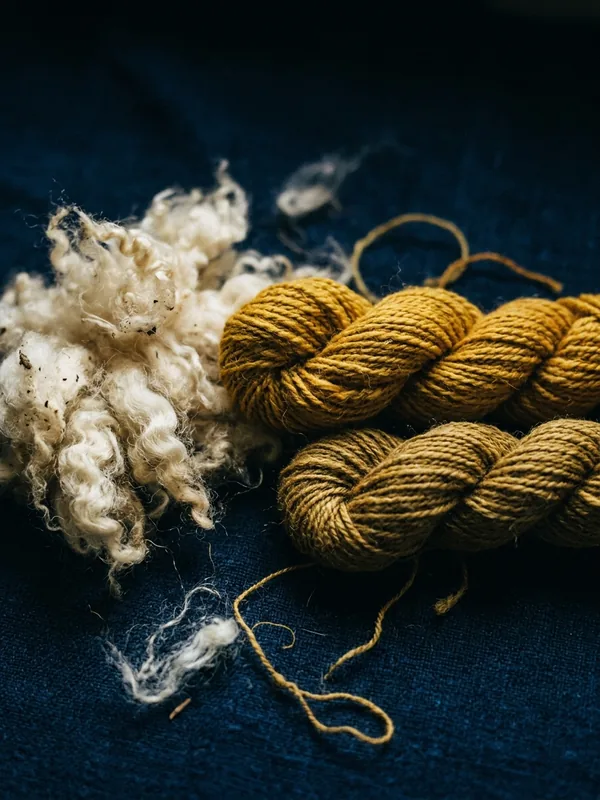
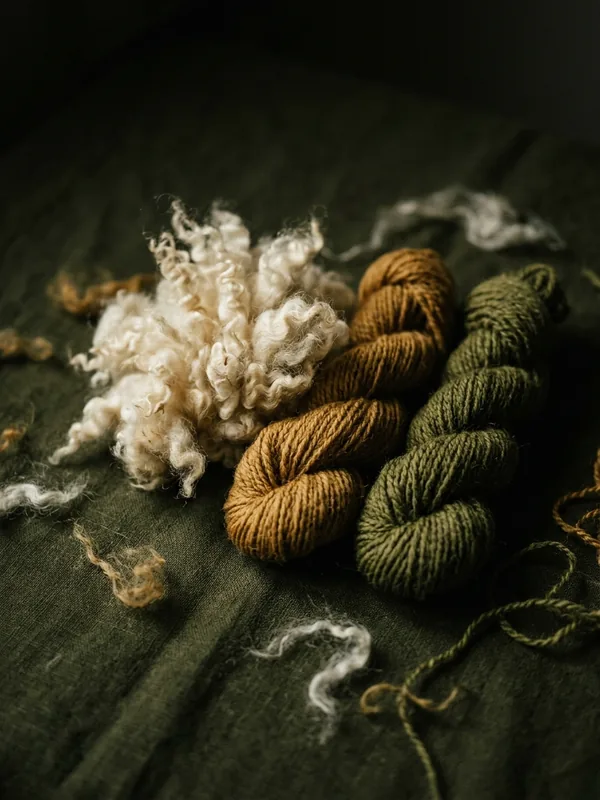
feat: troca a paleta de índigo para oliva-pampa, a pedido da realizadora
A Dafne não gosta de azul-marinho. Como o mundo visual inteiro lia de
oito variáveis, a troca foi de valor e não de estrutura: a tipografia, o
livro-razão, a faixa institucional e a lógica de instrução permanecem.

Tokens renomeados junto com os valores. Deixar uma variável chamada
--indigo valendo verde seria uma armadilha para quem mexesse nisso
depois, então --indigo virou --oliva, --ouro virou --latao e --linho
virou --osso, em todos os componentes.

Chão #2B3123, recuado #1E2319, urdume #3A4230, latão #C2A657, latão claro
#DCC177, osso #EDE7D6, osso recuado #BDB49E, tinta #14120D.

Fios de território refeitos: o verde-oliva do Vale dos Sinos sumiria
contra o chão novo e o azul de Porto Alegre saiu de cena junto com o
índigo. Agora são rosé #C9707A, couro #C08A52, ocre #C2A657 e violeta
#B87BB0, todos entre 3,88:1 e 5,67:1 como marca gráfica.

As cinco fotografias foram geradas de novo no Flow, com as composições
aprovadas descritas no prompt, inclusive a variante do tear que o
Bernardo escolheu. A edição por referência derrubou a sessão da página
duas vezes, então o caminho foi gerar com a composição fixada. Continuam
sendo estudo de matéria-prima, sem pessoas e sem lugares.

O véu do hero precisou adensar: sobre a foto oliva os botões em latão
mediam 4,2:1 no pixel mais claro. Com os novos pontos do gradiente, as
cinco zonas passam AA: olho 5,8:1, título 5,0:1, parágrafo 9,8:1, botões
5,0:1 e link do voo 6,5:1.
[…]

diff --git a/src/styles/global.css b/src/styles/global.css
@@ -1,23 +1,23 @@
-/* Mundo "brocado jacquard" — ver DESIGN.md para o contrato de direção.
-   Seda índigo como chão, trama dourada como único acento, cartão perfurado em linho. */
+/* Mundo "oliva-pampa" — ver DESIGN.md para o contrato de direção.
+   Oliva profundo do campo como chão, latão como único acento, cartão perfurado em osso. */
 :root {
-  --indigo: #141F35;
-  --indigo-fundo: #0E1626;
-  --urdume: #1F2B44;
-  --ouro: #C9A227;
-  --ouro-claro: #E0C05A;
-  --linho: #E8E0CE;
-  --linho-2: #B9AF9A;
-  --tinta: #12100C;
+  --oliva: #2B3123;
+  --oliva-fundo: #1E2319;
+  --urdume: #3A4230;
+  --latao: #C2A657;
+  --latao-claro: #DCC177;
+  --osso: #EDE7D6;
+  --osso-2: #BDB49E;
+  --tinta: #14120D;
 
   /* fios de território: marcas pequenas, nunca área */
-  --fio-serra: #C2603A;
-  --fio-sinos: #8B9A5B;
-  --fio-campanha: #C9A227;
-  --fio-poa: #7796B8;
+  --fio-serra: #C9707A;
+  --fio-sinos: #C08A52;
+  --fio-campanha: #C2A657;
+  --fio-poa: #B87BB0;
 
   /* anel de foco: nunca a cor de acento sobre superfície da mesma cor */
-  --foco: var(--ouro-claro);
+  --foco: var(--latao-claro);
 
   --display: 'Italiana', 'Optima', serif;
   --corpo: 'Archivo', system-ui, sans-serif;
@@ -35,8 +35,8 @@ html { scroll-behavior: smooth; scroll-padding-top: 5.5rem; }
 
 body {
   margin: 0;
-  background: var(--indigo);
-  color: var(--linho);
+  background: var(--oliva);
+  color: var(--osso);
   font-family: var(--corpo);
   font-size: 1.02rem;
   font-weight: 300;
@@ -44,7 +44,7 @@ body {
   -webkit-font-smoothing: antialiased;
 }
 
-/* trama de urdume: fios verticais quase imperceptíveis sob todo o índigo */
+/* trama de urdume: fios verticais quase imperceptíveis sob todo o oliva */
 body::before {
   content: "";
   position: fixed;
@@ -65,11 +65,11 @@ h1, h2, h3 {
   text-transform: uppercase;
   letter-spacing: 0.06em;
   text-wrap: balance;
-  color: var(--ouro);
+  color: var(--latao);
 }
 
 p { margin: 0 0 1.1em; max-width: var(--medida); text-wrap: pretty; }
-a { color: var(--ouro); }
+a { color: var(--latao); }
 img { max-width: 100%; display: block; }
 
 .container {
@@ -94,7 +94,7 @@ img { max-width: 100%; display: block; }
   font-weight: 400;
   letter-spacing: 0.16em;
   text-transform: uppercase;
-  color: var(--linho-2);
+  color: var(--osso-2);
 }
 
 /* ação de contorno: a única variante de botão do sistema */
@@ -104,30 +104,30 @@ img { max-width: 100%; display: block; }
   font-size: 0.76rem;
   letter-spacing: 0.14em;
   text-transform: uppercase;
-  color: var(--ouro);
+  color: var(--latao);
   text-decoration: none;
-  border: 1px solid var(--ouro);
+  border: 1px solid var(--latao);
   padding: 0.95rem 2.1rem;
   transition: background-color 0.25s ease, color 0.25s ease;
 }
-.acao:hover { background: var(--ouro); color: var(--indigo); }
+.acao:hover { background: var(--latao); color: var(--oliva); }
 
-.acao--linho { color: var(--linho-2); border-color: var(--urdume); }
-.acao--linho:hover { background: transparent; color: var(--linho); border-color: var(--linho); }
+.acao--osso { color: var(--osso-2); border-color: var(--urdume); }
+.acao--osso:hover { background: transparent; color: var(--osso); border-color: var(--osso); }
 
 /* faixa de cartão perfurado: full-bleed, carrega informação real */
 .cartao {
-  background: var(--linho);
+  background: var(--osso);
   color: var(--tinta);
-  border-block: 1px solid rgba(18, 16, 12, 0.28);
+  border-block: 1px solid rgba(20, 18, 13, 0.28);
 }
-.cartao .razao { color: rgba(18, 16, 12, 0.62); }
+.cartao .razao { color: rgba(20, 18, 13, 0.62); }
 .cartao a { color: var(--tinta); }
 
 .pular-link {
   position: absolute;
   left: -9999px;
-  background: var(--linho);
+  background: var(--osso);
   color: var(--tinta);
   padding: 0.7rem 1.1rem;
   font-family: var(--razao);

diff --git a/src/data/tipos.ts b/src/data/tipos.ts
@@ -2,7 +2,6 @@ export interface Regiao {
   id: string;
   nome: string;
   vocacao: string;
-  cor: string;
   texto: string;
   imagem: string | null; // caminho em /public quando houver fotos da pesquisa
   imagemAlt?: string; // descrição do estudo de matéria-prima, obrigatória quando há imagem

diff --git a/DESIGN.md b/DESIGN.md
@@ -2,43 +2,43 @@
 
 <!-- impeccable:design-schema 1 -->
 
-> Brocado jacquard sobre seda meia-noite: o mapeamento como instrução tecida.
+> Oliva-pampa e osso: o mapeamento como instrução tecida.
 
 ## Contrato de direção
 
-**THESIS** — O tear jacquard é o avô do computador: cartões perfurados viram trama. Este projeto transforma territórios têxteis em dados mapeados, então o site é lido como um brocado em execução, não como um catálogo. Recusa a arrumação que a categoria sempre entrega: fundo creme, serifa editorial e acento terracota.
+**THESIS** — O tear jacquard é o avô do computador: cartões perfurados viram trama. Este projeto transforma territórios têxteis em dados mapeados, então o site é lido como um brocado em execução, não como um catálogo. O chão é o verde profundo do campo, que é de onde vêm a lã, a tinturaria natural e o pampa. Recusa a arrumação que a categoria sempre entrega: fundo creme, serifa editorial e acento terracota.
 
-**OWN-WORLD** — Seda índigo profunda como chão de página; trama dourada como único acento estrutural; faixas de cartão perfurado em linho cru marcando instrução; tinta quase-preta como sombra de urdume. Réguas monoespaçadas, capitulares tecidas, cantos retos, zero sombra.
+**OWN-WORLD** — Oliva profundo do campo como chão de página; latão como único acento estrutural; faixas de cartão perfurado em osso marcando instrução; tinta quase-preta como sombra de urdume. Réguas monoespaçadas, capitulares tecidas, cantos retos, zero sombra.
 
 **STORY** — Uma marca entende em segundos que existe pesquisa de campo real em quatro territórios, reconhece rigor de instituição e escreve para apoiar.
 
-**FIRST VIEWPORT** — Chão índigo de borda a borda. Faixa de cartão perfurado sob o cabeçalho, com os quatro territórios como colunas numeradas. À esquerda, "MODA COMO ORIGEM" em capitulares Italiana douradas, em escala de cartaz. Abaixo: uma linha de apoio e a ação primária em contorno dourado. À direita, o mapa vetorial do RS desenhado como trama.
+**FIRST VIEWPORT** — Uma tela inteira, sem nenhuma nesga da seção seguinte. Fotografia de tecelagem sangrando de borda a borda, com véu direcional que abre para a trama à direita e fecha onde o texto pousa. À esquerda, "MODA COMO ORIGEM" em capitulares Italiana em latão, em escala de cartaz, sobre coluna estreita. Abaixo, a linha de apoio, duas ações em contorno e o convite ao `/voo` como fio. A faixa institucional branca encosta no pé da tela e fecha o hero.
 
-**FORM** — Jacquard punched brocade (desafiante dealado, vencedor por identificação de público e clareza de produto contra a renderização papel-quente). Seed: `4b51d351`.
+**FORM** — Jacquard punched brocade, agora em oliva-pampa. A troca de paleta veio da realizadora do projeto, que rejeitou o azul-marinho; a estrutura, a tipografia e a lógica de instrução permanecem. Seed: `4b51d351`.
 
 ## Tokens — Cores
 
 | Nome | Valor | Token | Papel |
 |------|-------|-------|-------|
-| Índigo | `#141F35` | `--indigo` | Chão de página. Seda meia-noite, nunca azul-marinho puro |
-| Índigo profundo | `#0E1626` | `--indigo-fundo` | Faixas e superfícies recuadas, um passo mais escuro que o chão |
-| Urdume | `#1F2B44` | `--urdume` | Bordas, réguas e divisórias sobre o índigo |
-| Ouro | `#C9A227` | `--ouro` | Acento único e estrutural: títulos, ação primária, motivo da trama |
-| Ouro claro | `#E0C05A` | `--ouro-claro` | Estado de foco e hover; nunca em bloco de texto |
-| Linho cru | `#E8E0CE` | `--linho` | Faixas de cartão perfurado e texto sobre índigo |
-| Linho recuado | `#B9AF9A` | `--linho-2` | Texto secundário, metadados, rótulos |
-| Tinta | `#12100C` | `--tinta` | Texto sobre as faixas de linho; sombra de urdume |
+| Oliva | `#2B3123` | `--oliva` | Chão de página. Verde profundo de campo, nunca verde-garrafa nem verde-menta |
+| Oliva profundo | `#1E2319` | `--oliva-fundo` | Faixas e superfícies recuadas, um passo mais escuro que o chão |
+| Urdume | `#3A4230` | `--urdume` | Bordas, réguas e divisórias sobre o oliva |
+| Latão | `#C2A657` | `--latao` | Acento único e estrutural: títulos, ação primária, motivo da trama |
+| Latão claro | `#DCC177` | `--latao-claro` | Estado de foco e hover; nunca em bloco de texto |
+| Osso | `#EDE7D6` | `--osso` | Faixas de cartão perfurado e texto sobre oliva |
+| Osso recuado | `#BDB49E` | `--osso-2` | Texto secundário, metadados, rótulos |
+| Tinta | `#14120D` | `--tinta` | Texto sobre as faixas de osso; sombra de urdume |
 
-**Fios de território** — usados só como marcas pequenas, nunca como área: Serra Gaúcha `#C2603A`, Vale dos Sinos `#8B9A5B`, Campanha `#C9A227`, Porto Alegre `#7796B8`.
+**Fios de território** — usados só como marcas pequenas, nunca como área: Serra Gaúcha `#C9707A`, Vale dos Sinos `#C08A52`, Campanha `#C2A657`, Porto Alegre `#B87BB0`. Nenhum deles pode ser verde: o fio precisa se separar do chão.
 
-Estratégia de cor: **Committed** — o índigo carrega 60-70% da superfície; o ouro é o único acento e aparece em menos de 5%.
+Estratégia de cor: **Committed** — o oliva carrega 60-70% da superfície; o latão é o único acento e aparece em menos de 5%.
 
 ## Tokens — Tipografia
 
 | Papel | Face | Uso |
 |-------|------|-----|
 | Display | **Italiana** 400 | Capitulares tecidas. Só em caixa alta, `letter-spacing` 0.06em a 0.12em. Nunca abaixo de 24px |
-| Corpo | **Archivo** 300/400/500 | Todo texto corrido e interface |
+| Corpo | **Archivo** 300/400/500/600 e itálico 400 | Todo texto corrido e interface |
 | Razão | **JetBrains Mono** 400/500 | Réguas de cartão perfurado, numeração de território, rótulos técnicos, créditos |
 
 Escala de display: `clamp(2.6rem, 7vw, 6.5rem)`. Hierarquia por **tamanho e espaçamento**, não por peso.
@@ -49,41 +49,48 @@ Faces proibidas (monocultura de IA): Fraunces, Cormorant, Playfair, Lora, Crimso
 
 Unidade base 4px. Largura máxima de página 1440px; medida de leitura 62ch.
 **Raio de borda: 0 em tudo.** Sem exceção para botão, imagem, faixa ou selo.
-**Sem sombra.** Elevação vem de mudança de superfície e de régua de 1px.
+**Sem sombra.** Elevação vem de mudança de superfície e de régua de 1px. Sombra em texto é permitida apenas sobre fotografia, e só para comprar leitura sem desenhar caixa.
 Régua de seção: 1px `--urdume`. Intervalo entre seções: 5rem no mobile, 8rem no desktop.
 
 ## Componentes
 
-**Faixa de cartão perfurado** — tira full-bleed em `--linho` com pontos de perfuração e numeração monoespaçada. Marca transição de seção e carrega índice. Não é decoração: cada faixa contém informação real (territórios, capítulos, créditos).
+**Faixa de cartão perfurado** — tira full-bleed em `--osso` com numeração monoespaçada e separadores pontilhados. Marca transição de seção e carrega índice. Não é decoração: cada faixa contém informação real.
 
-**Título tecido** — Italiana em caixa alta, `--ouro`, com espaçamento aberto. Um por seção, alinhado à esquerda, sem elemento decorativo.
+**Título tecido** — Italiana em caixa alta, `--latao`, com espaçamento aberto. Um por seção, alinhado à esquerda, sem elemento decorativo.
 
-**Ação de contorno** — 1px `--ouro`, fundo transparente, texto `--ouro`, cantos retos, `padding` 0.9rem 2rem. É a única variante de botão. Sobre linho, inverte para 1px `--tinta`.
+**Ação de contorno** — 1px `--latao`, fundo transparente, texto `--latao`, cantos retos. É a única variante de botão. Sobre osso, inverte para 1px `--tinta`, porque latão sobre osso mede 1,91:1 e reprovaria.
 
-**Cartão de território** — retângulo chapado sobre `--indigo-fundo`, régua de 1px `--urdume`, número monoespaçado no topo, nome em Italiana, vocação em `--linho-2`. O fio da região aparece como um traço de 2px no topo. Sem hover-lift (não é clicável).
+**Livro-razão tecido** — a seção de territórios é registro tabular, não grade de cartões: número em mono, estudo de matéria-prima em 3:4, nome em Italiana, vocação em caixa alta e nota de campo. Linhas separadas por filete de `--urdume`, com o fio do território cruzando o filete em 2px.
+
+**Estudo de matéria-prima** — fotografia macro de material, sem pessoas e sem lugares. Retângulo com filete de urdume. Nunca fotografia documental encenada: o projeto ainda não tem registro de campo, e imagem inventada fabricaria evidência.
 
 **Régua de índice** — linha monoespaçada com número e rótulo, separada por pontilhado, ao estilo de sumário de publicação.
 
 ## Faça
 
-- Trate o índigo como chão real da página, não como seção escura ocasional.
-- Reserve o ouro para título, ação e motivo de trama. Onde há dúvida, use linho.
-- Deixe as faixas de linho carregarem informação verdadeira, nunca enfeite.
+- Trate o oliva como chão real da página, não como seção escura ocasional.
+- Reserve o latão para título, ação e motivo de trama. Onde há dúvida, use osso.
+- Deixe as faixas de osso carregarem informação verdadeira, nunca enfeite.
 - Construa hierarquia por escala e espaçamento; a Italiana tem um peso só.
 - Ancore números e réguas em monoespaçada: é a voz do cartão perfurado.
 - Mantenha todo canto reto e toda elevação sem sombra.
+- Meça o contraste contra o fundo real da seção, e sobre fotografia meça o pixel, não a intenção.
 
 ## Não faça
 
+- Não use azul-marinho nem índigo em lugar nenhum: foi a cor recusada pela realizadora, inclusive nas fotografias.
 - Não use fundo creme, papel ou parchment como chão de página: é a renderização padrão que este mundo recusa.
-- Não introduza terracota como acento de superfície. Ele existe apenas como fio da Serra Gaúcha, em marca pequena.
+- Não use verde como fio de território: ele desaparece contra o chão.
 - Não arredonde nada, em lugar nenhum.
-- Não use sombra, brilho ou gradiente decorativo.
+- Não use sombra de caixa, brilho ou gradiente decorativo.
 - Não use a Italiana em corpo de texto nem abaixo de 24px.
 - Não publique imagem gerada com nome de arquivo do gerador; nomes semânticos sempre.
 - Não escureça a faixa institucional obrigatória: ela permanece sobre branco, de ponta a ponta, por exigência legal.
 
 ## Acessibilidade do sistema
 
-Contraste alvo AA. Medidos: `--linho` sobre `--indigo` = 12,5:1 · `--ouro` = 6,8:1 · `--linho-2` = 7,6:1 · `--tinta` sobre `--linho` = 14,5:1 · `--ouro-claro` (foco) = 9,3:1. Todos aprovados para texto AA.
-**Anel de foco:** token próprio `--foco` = `--ouro-claro` sobre índigo e `--tinta` sobre linho, sempre ≥ 3:1 contra o fundo real da seção. Nunca reutilizar a cor de acento como anel sobre superfície da mesma cor.
+Contraste alvo AA. Medidos sobre o chão `--oliva`: `--osso` = 10,85:1 · `--osso-2` = 6,50:1 · `--latao` = 5,67:1 · `--latao-claro` = 7,62:1. Sobre `--oliva-fundo`: `--osso` = 12,98:1 · `--osso-2` = 7,78:1 · `--latao` = 6,78:1. Sobre a faixa de osso: `--tinta` = 15,15:1. Fios de território sobre o chão, como marca gráfica: 3,88:1 a 5,67:1, todos acima do mínimo de 3:1.
+
+**Anel de foco:** token próprio `--foco` = `--latao-claro` sobre oliva e `--tinta` sobre osso, sempre ≥ 3:1 contra o fundo real da seção. Nunca reutilizar a cor de acento como anel sobre superfície da mesma cor.
+
+**Sobre fotografia:** o hero não passa por medição de token, e sim por amostragem do pixel real do fundo com o texto oculto, no percentil extremo. Nenhuma zona de texto pode cair abaixo de 4,5:1, ou 3:1 quando o texto é grande.
